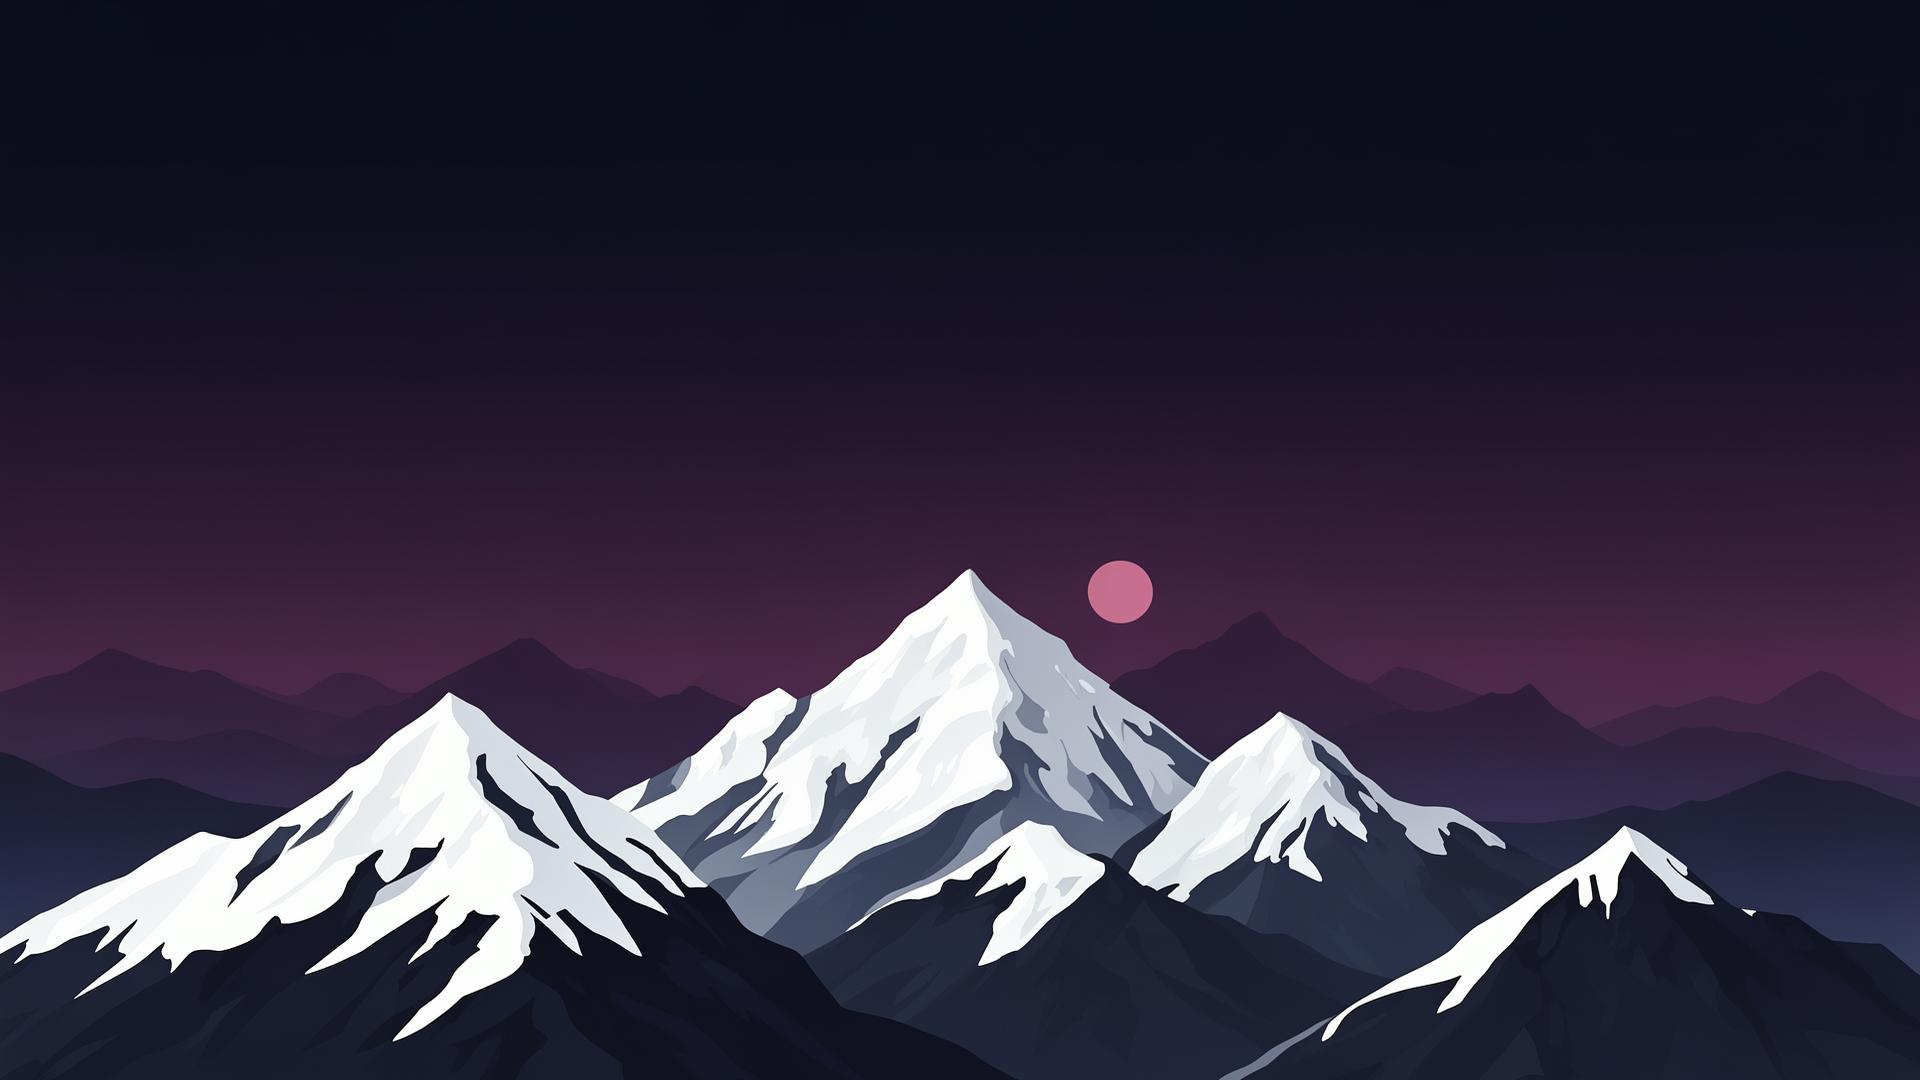
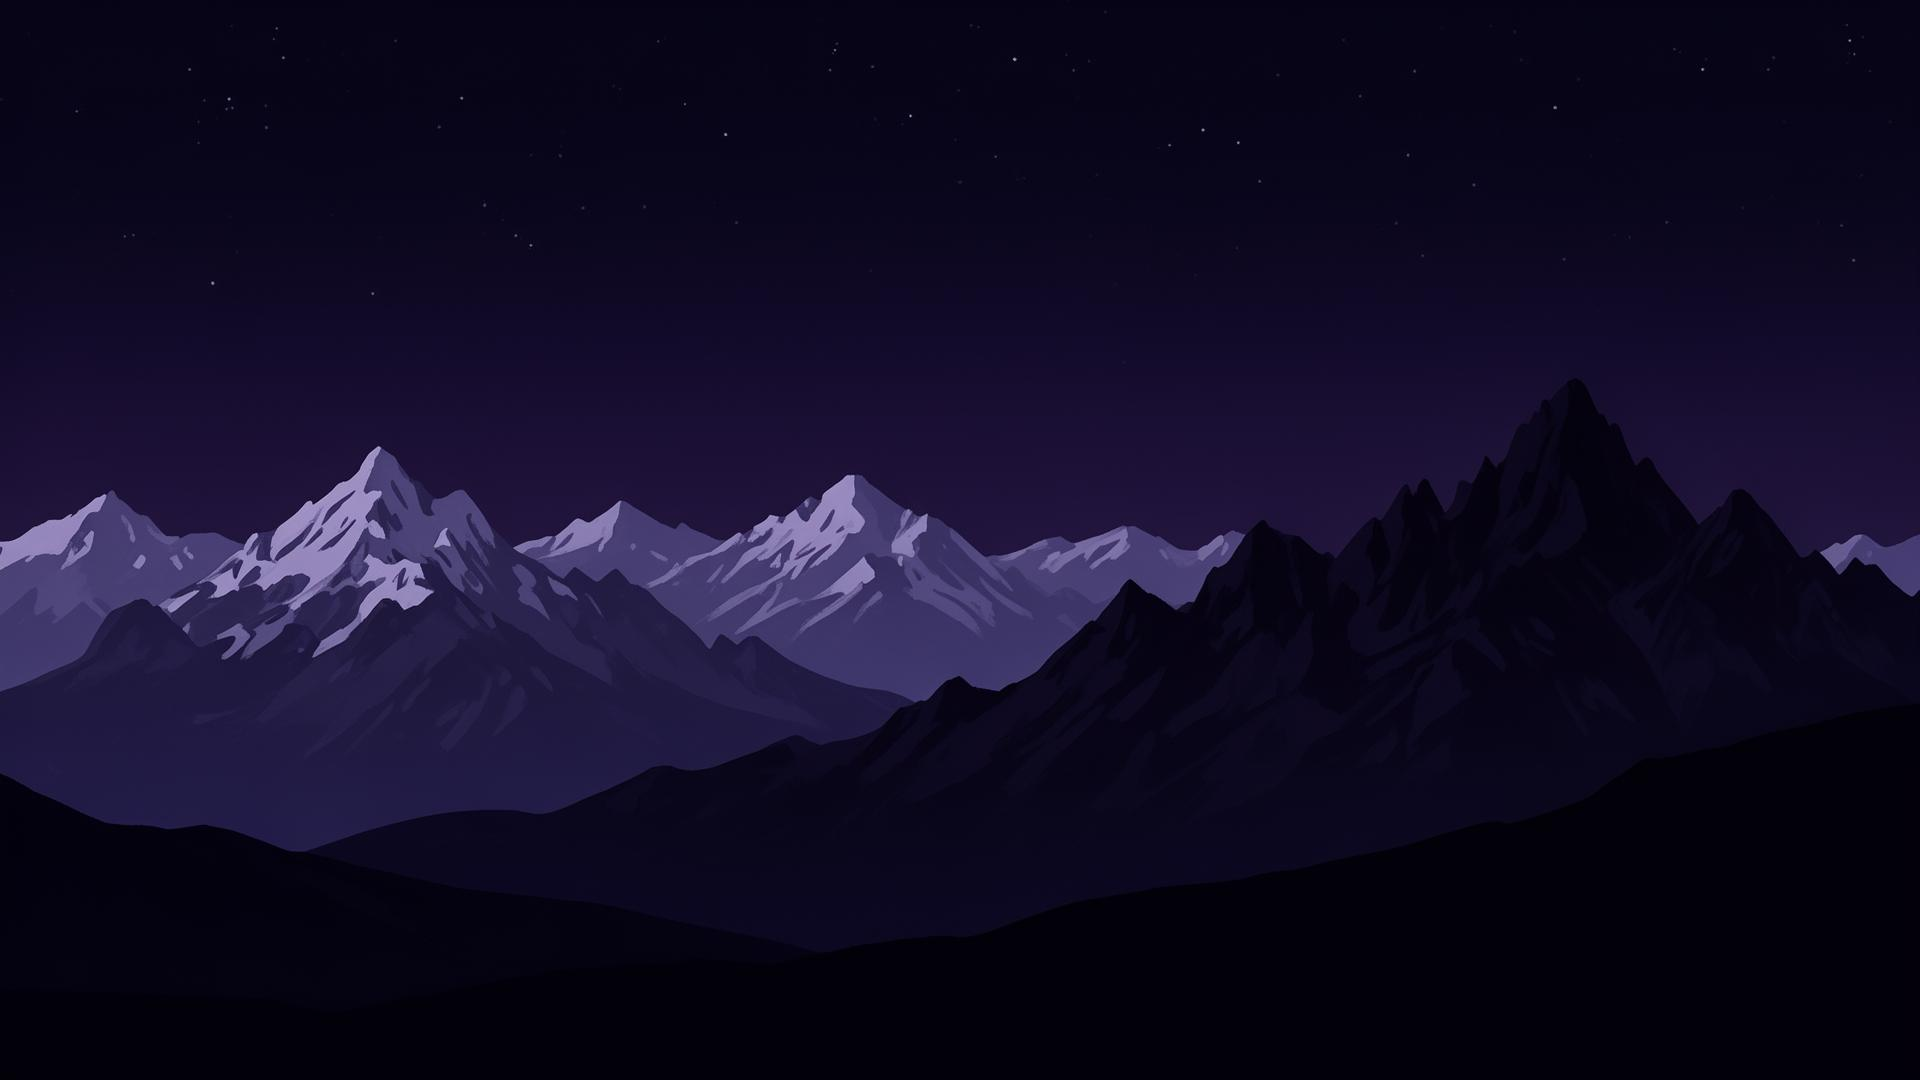
Reverted to commit 598ead67bf880528384169885d929fcfe6c984cb

diff --git a/src/components/hero/scenes.ts b/src/components/hero/scenes.ts
@@ -1,14 +1,13 @@
 import cityNight from "@/assets/scenes/city-night.jpg";
 import beachDay from "@/assets/scenes/beach-day.jpg";
 import snowCity from "@/assets/scenes/snow-city.jpg";
-import mountainsNight from "@/assets/scenes/mountains-night.jpg";
 
 export type TextMode = "light" | "dark";
 
 export type Scene = {
   id: string;
   label: string;
-  /** Flat full-bleed PNG/JPG. `null` = use the live code-drawn fallback scene. */
+  /** Flat full-bleed PNG/JPG. `null` = use the live code-drawn mountains scene. */
   image: string | null;
   /** Whether hero text/pills should be light or dark on this scene. */
   textMode: TextMode;
@@ -18,8 +17,8 @@ export const SCENES: Scene[] = [
   {
     id: "mountains",
     label: "Mountains",
-    image: mountainsNight,
-    textMode: "light",
+    image: null, // live ParallaxHero scene (gradient + sun/moon/mountains)
+    textMode: "light", // overridden at runtime by is-day for the live scene
   },
   {
     id: "city-night",
